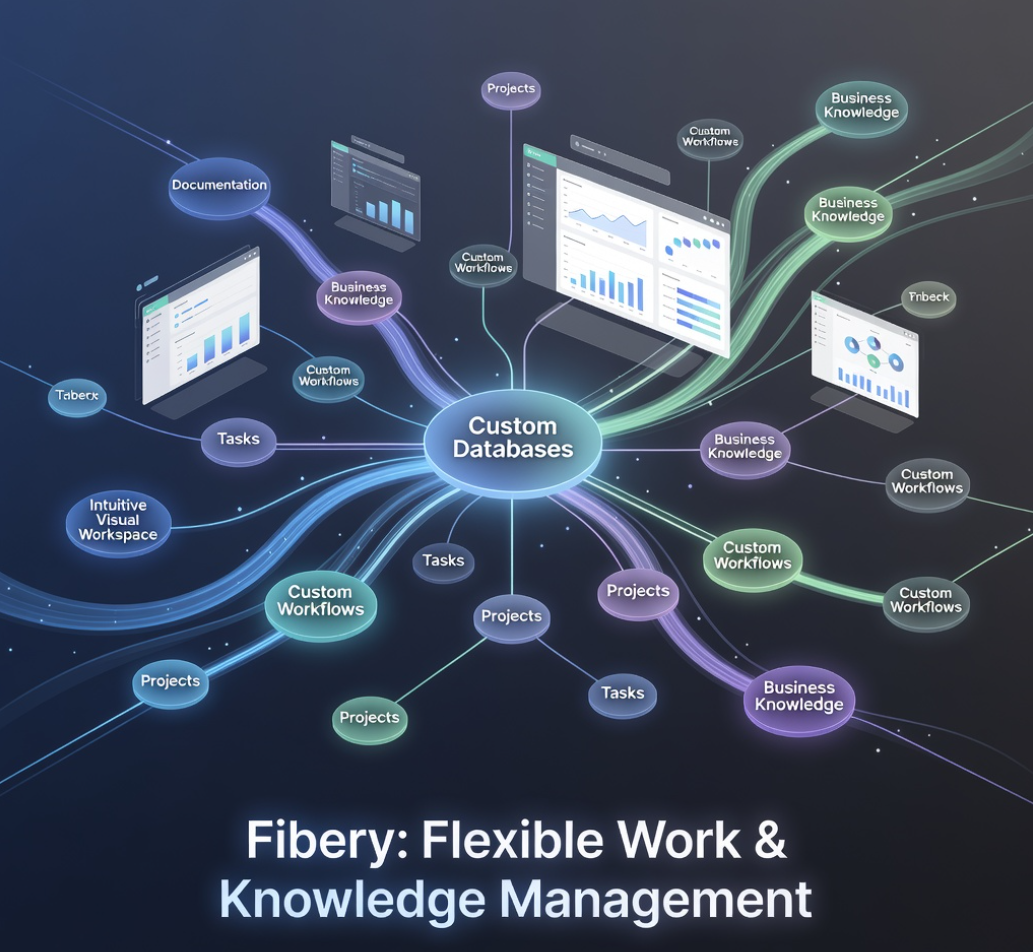
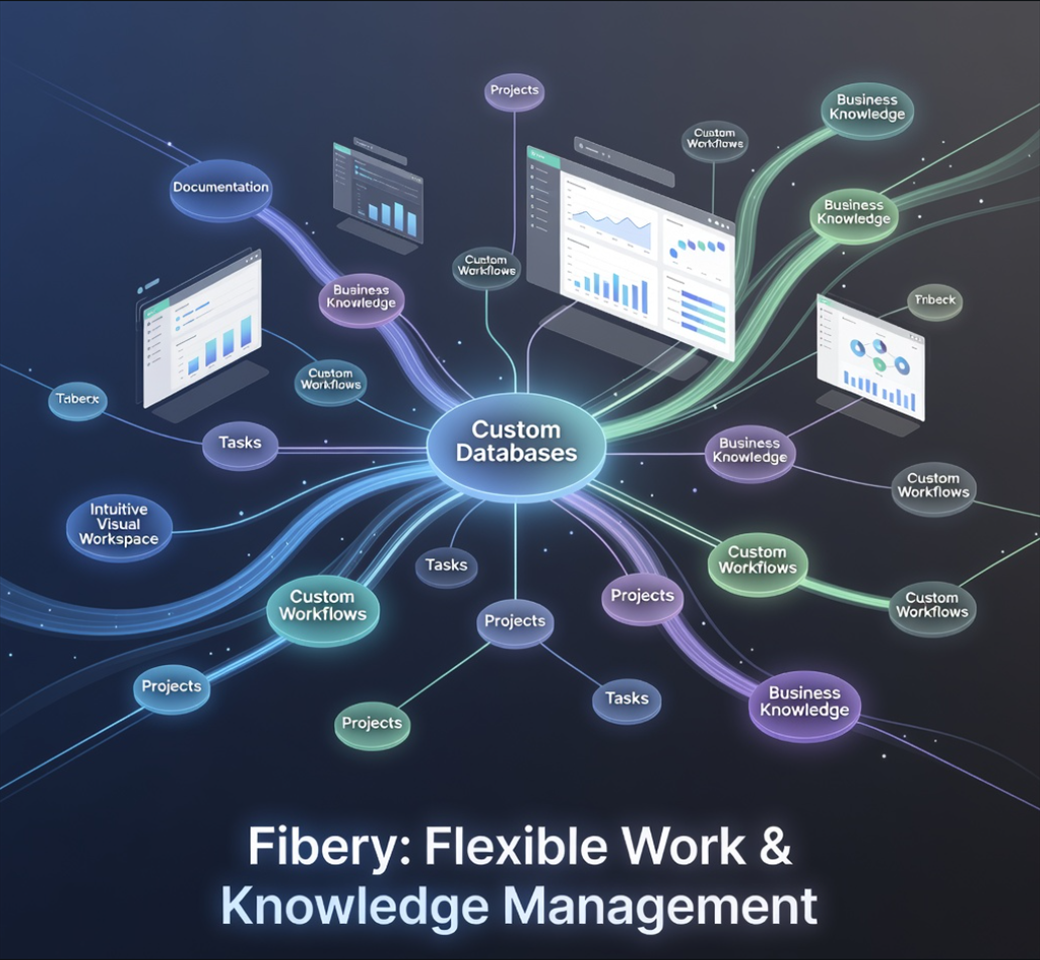
deploy: 395ff17ca742f72174276412569642ff76309b6b

diff --git a/css/style.css b/css/style.css
@@ -6,7 +6,6 @@
   --muted: #9fa5aa;
   --accent: #ff8a00;
   --accent-hover: #ff9f2f;
-  --carousel-height: 400px;
 }
 
 * { box-sizing: border-box; }
@@ -117,10 +116,10 @@ header p {
   margin-bottom: 14px;
 }
 
-/* Same fixed frame for every project — full image scaled inside, no crop */
+/* Uniform frame — matches normalized 1040×960 cover canvas */
 .carousel-viewport {
   width: 100%;
-  height: var(--carousel-height);
+  aspect-ratio: 1040 / 960;
   overflow: hidden;
   border-radius: 10px;
   border: 1px solid #30363b;
@@ -139,7 +138,14 @@ header p {
   overflow: hidden;
 }
 
-.carousel-slide img {
+.carousel-slide.is-cover img {
+  width: 100%;
+  height: 100%;
+  object-fit: fill;
+  display: block;
+}
+
+.carousel-slide.is-screenshot img {
   width: 100%;
   height: 100%;
   object-fit: contain;
@@ -210,9 +216,5 @@ footer {
 @media (max-width: 768px) {
   .grid {
     grid-template-columns: 1fr;
-  }
-
-  :root {
-    --carousel-height: 320px;
   }
 }

diff --git a/js/carousel.js b/js/carousel.js
@@ -18,7 +18,7 @@ function createCarousel(project) {
       <div class="carousel-viewport">
         <div class="carousel-track">
           ${images.map((src, index) => `
-            <div class="carousel-slide">
+            <div class="carousel-slide${index === 0 ? ' is-cover' : ' is-screenshot'}">
               <img src="${src}" alt="${project.name} image ${index + 1}" loading="lazy" />
             </div>
           `).join('')}
